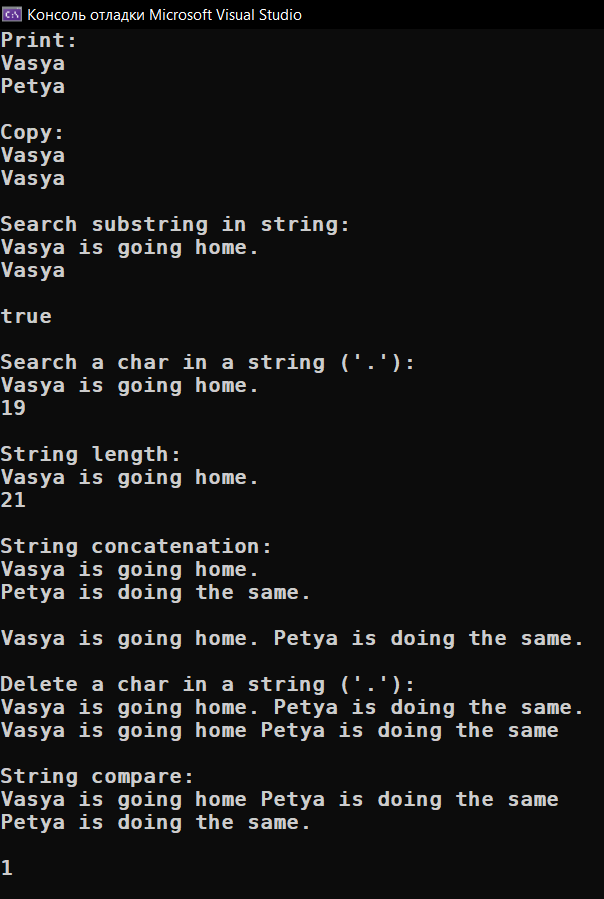
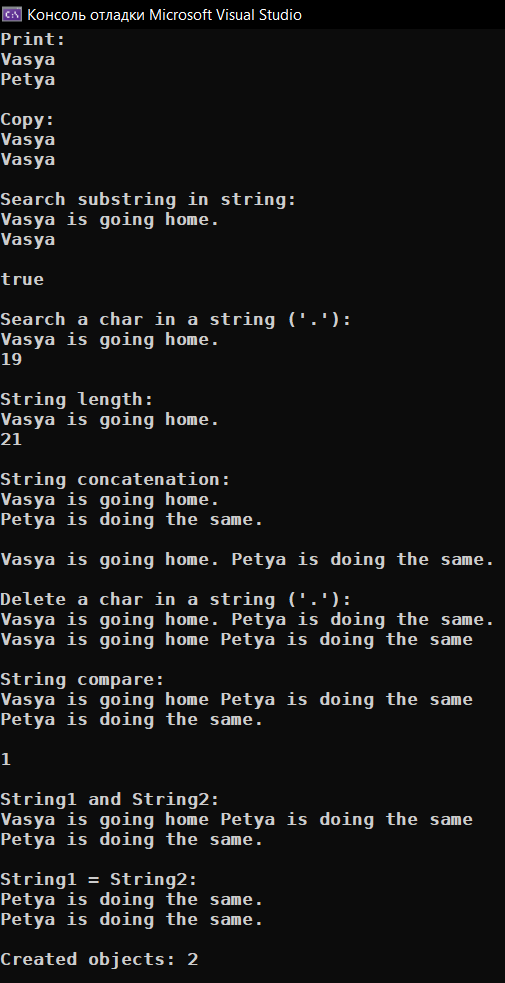
+ move/copy constructor/operator=

diff --git a/Task_1/Task_1.cpp b/Task_1/Task_1.cpp
@@ -12,6 +12,8 @@ public:
     MyString();
     MyString(unsigned int len);
     MyString(const char* s);
+    MyString(const MyString& obj);
+    MyString(MyString&& obj);
     ~MyString();
 
     void Init(const char* s);
@@ -29,6 +31,9 @@ public:
 
     char* GetStr();
     int Getlength();
+
+    MyString& operator=(const MyString& obj);
+    MyString& operator=(MyString&& obj);
 
     static void InfoAboutObjects();
 };
@@ -74,6 +79,32 @@ MyString::MyString(const char* s)
     }
 
     ++createdObjects;
+}
+
+MyString::MyString(const MyString& obj)
+{
+    if (str != nullptr)
+        delete[] str;
+
+    length = obj.length;
+    str = new char[length + 1];
+
+    for (int i = 0; i <= length; i++)
+    {
+        str[i] = obj.str[i];
+    }
+}
+
+MyString::MyString(MyString&& obj)
+{
+    if (str != nullptr)
+        delete[] str;
+
+    length = obj.length;
+    str = obj.str;
+
+    obj.length = 0;
+    obj.str = nullptr;
 }
 
 MyString::~MyString()
@@ -244,6 +275,40 @@ int MyString::Getlength()
     return length;
 }
 
+MyString& MyString::operator=(const MyString& obj)
+{
+    if (this != &obj)
+    {
+        if (str != nullptr)
+            delete[] str;
+
+        length = obj.length;
+        str = new char[length + 1];
+
+        for (int i = 0; i <= length; i++)
+        {
+            str[i] = obj.str[i];
+        }
+    }
+    return *this;
+}
+
+MyString& MyString::operator=(MyString&& obj)
+{
+    if (this != &obj)
+    {
+        if (str != nullptr)
+            delete[] str;
+
+        length = obj.length;
+        str = obj.str;
+
+        obj.length = 0;
+        obj.str = nullptr;
+    }
+    return *this;
+}
+
 void MyString::InfoAboutObjects()
 {
     cout << "Created objects: " << MyString::createdObjects << "\n";
@@ -322,6 +387,20 @@ int main()
     obj2.Print();
     
     cout << "\n" << obj1.MyStrCmp(obj2) << "\n\n";
+
+    cout << "String1 and String2:" << "\n";
+
+    obj1.Print();
+    obj2.Print();
+
+    obj1 = obj2;
+
+    cout << "\nString1 = String2:" << "\n";
+
+    obj1.Print();
+    obj2.Print();
+
+    cout << "\n";
 
     MyString::InfoAboutObjects();
 }
